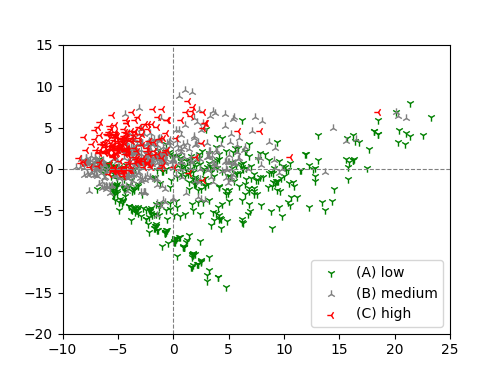
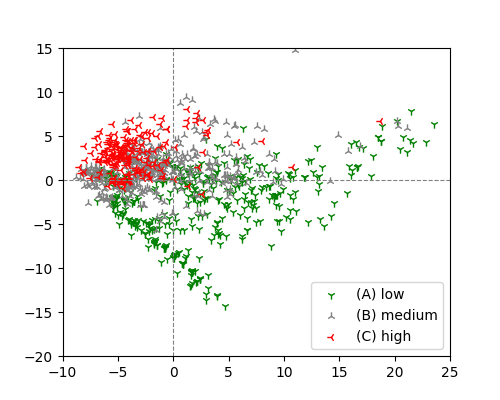
Rewrote README.md.

diff --git a/solubility.py b/solubility.py
@@ -1,0 +1,71 @@
+import numpy as np
+import pandas as pd
+import matplotlib.pyplot as plt
+
+from rdkit import Chem
+from rdkit.Chem import Descriptors
+
+def plot_pca(T, labels):
+    plt.figure(figsize=(5, 4))
+    for i, (label, color) in enumerate(zip(sorted(set(labels)), ('green', 'gray', 'red'))):
+        plt.scatter(T[labels == label, 0], T[labels == label, 1], label=label,
+                    marker=f'{i+1}', color=color, linewidth=1.0)
+    plt.axline([0, 0], [1, 0], linestyle='--', linewidth=0.8, color='gray')
+    plt.axline([0, 0], [0, 1], linestyle='--', linewidth=0.8, color='gray')
+    plt.xlim(-10, 25)
+    plt.ylim(-20, 15)
+    plt.legend()
+    plt.savefig('figure/solubility_PCA.png', dpi=100)
+
+def pca(X, columns):
+    N, n = X.shape
+
+    # Mean centering.
+    X = X - np.mean(X, axis=0)
+
+    # Standardization.
+    X = X / np.std(X, axis=0)
+
+    U, S, Vt = np.linalg.svd(X)
+    T = U[:, :n] * S
+
+    importance = pd.DataFrame(zip(columns, Vt.T[:, 1]), columns=['feature', 'value'])
+
+    return T, importance
+
+def load_dataset():
+    descriptors, y, labels = [], [], []
+    for mol in Chem.SDMolSupplier('data/solubility.train.sdf'):
+        descriptors.append(Descriptors.CalcMolDescriptors(mol))
+        y.append(np.float32(mol.GetProp('SOL')))
+        labels.append(mol.GetProp('SOL_classification'))
+
+    data = []
+    for descriptor in descriptors:
+        data.append(descriptor.values())
+
+    X = pd.DataFrame(data, columns=descriptor.keys())
+
+    labels = np.asarray(labels)
+
+    return X, y, labels
+
+def main():
+    X, y, labels = load_dataset()
+
+    print(pd.DataFrame(labels, columns=['label']).groupby('label').size())
+
+    print('Exclude {} features of the NaN values.'.format((X.isnull().sum(axis=0) > 0).sum()))
+    X = X.loc[:, X.isnull().sum(axis=0) == 0]
+
+    print('Exclude {} features of zero variance.'.format((X.var(axis=0) == 0).sum()))
+    X = X.loc[:, X.var(axis=0) != 0]
+
+    T, importance = pca(X.values, X.columns)
+
+    print(importance.sort_values('value', ascending=False))
+
+    plot_pca(T, labels)
+
+if __name__ == '__main__':
+    main()

diff --git a/README.md b/README.md
@@ -1,56 +1,30 @@
-# Representation of aqueous solubility of small molecules using PCA
+# Representation of Solubility of Small Molecules
 
 ## Introduction
 
-*Small molecules* are still a large percentage of *drug discovery* candidates due to their ease of handling and use.
-Screening is one of the initial steps in drug discovery for small molecules, and *virtual screening* is a computational approach to this process.
+*Small molecules* are still a large percentage of *drug discovery* candidate substances due to their ease of handling and use. In drug discovery involving small molecules, there is a process called *screening* that selects drug candidate compounds in the initial steps from a vast number of chemical structures to be investigated. *Virtual screening* is a method that accelerates this process by computing.
 
-Prior to the introduction of *deep learning*, DL, virtual screening used *molecular descriptors* calculated from the structure of a compound as features.
-Molecular descriptors are mainly composed of two components: experimental measurements such as physicochemical properties, and theoretically defined quantities such as geometric properties.
-In particular, molecular descriptors that are determined from the existence and frequency of substructures, which is one of the geometrical properties, are called *chemical fingerprints*.
+In early virtual screening, *molecular descriptors* based on chemical structures were often used to characterize small molecule drugs. For example, one of such attempts is the *rule of five*, which is a criterion proposed by *Lipinski et al.* in 1997 to evaluate absorption and permeation of a chemical compound[^Lipinski]. 
 
-An early attempt to characterize *small molecule drugs* using molecular descriptors is known as the *rule of five* proposed by Lipinski et al. in 1997.
-This is a proposal to represent the *absorption*, *distribution*, *metabolism*, and *excretion*, so-called ADME, of mainly oral drugs by using the *hydrogen bond donors*, *hydrogen bond acceptors*, *molecular weight*, and *partition coefficient* of small molecules as the features.
-The concept that features represent in the virtual screening of small molecule drugs is called *druglikeness*, and ADME is considered to be a part of it.
-As computing has progressed, a large number of compounds and features have been used for the representation of druglikeness by molecular descriptors.
-There have been attempts to represent more complex properties of compounds by molecular descriptors, and *quantitative structure-activity relationship*, QSAR, which seeks correlation with biological acivities essential for small molecule drugs, is an early application of machine learning.
-
-As an example here, we take the *aqueous solubility* of small molecules and project the molecular descriptors using *principal component analysis*, PCA, to visually represent their properties.
+Here, as a simple example of charcterize small molecules by molecular descriptors, we take the *solubility* of a chemical compound as the target index and project the molecular descriptors of each compound by *principal component analysis*, PCA, to visually represent that the compounds can be classified by the index.
 
 ## Dataset
 
-We use the dataset from [Huuskonen], which was evaluated to predict the aqueous solubility of small molecules. 
-This dataset contains 1,025 small molecules of organic compounds defined in `MDL Molfile` format and classified into 417, 402, and 206 categories according to low, medium, and high solubility, respectively.
+We use the dataset from [^Huuskonen], which evaluates the solubility of small molecules. This dataset contains 1,025 small molecules of organic compounds defined in the `MDL Molfile` format, with 417, 402, and 206 chemical compounds classified for low, medium, and high solubility, respectively.
 
-The Python cheminformatics package `RDKit` was used to calculate molecular descriptors.
-Of all molecular descriptors defined in `RDKit`, 183 molecular descriptors were used as features after excluding descriptors containing missing values.
-Thus, each compound is represented by a real vector of 183 dimensions and the dataset is a $(1025 \times 183)$-matrix.
+The Python *cheminformatics* package `RDKit` was used to calculate molecular descriptors. Among all molecular descriptors defined in `RDKit`, 183 molecular descriptors were used as *features*, excluding descriptors that contain missing values or have zero variance. Thus, each compound is represented by a real vector of 183 dimensions and the dataset is a $(1025 \times 183)$-matrix.
 
-## Methods
+## Projection and Classification
 
-PCA is the most fundamental *unsupervised* or *self-supervised learning*.
-Mathematically, it is based on the eigendecomposition of the covariance matrix, and is a linear method that gives a projection from the original coordinates to the coordinates that maximize the variance in each dimension.
-It is often used as the first choice in machine learning, especially in *visualization*, because it allows dimensionality reduction at a practical cost by extracting common features from a given dataset in high dimensions.
+PCA is a linear method that gives a projection from the original coordinates to the coordinates that maximize the variance in each dimension, and is one of the most fundamental methods of *unsupervised learning*. It is often used as the first choice in *machine learning*, especially for *visualization*, because it allows dimensionality reduction at a practical cost from a given dataset in high dimensions.
 
-Here, we investigate the possibility of classifying solubility using a linear method by projecting the higher-dimensional molecular descriptor representation of the compounds onto the coordinate with the largest variance.
+Here, we project the representation of compounds by high-dimensional molecular descriptors to the coordinate with the largest variance using PCA and investigate the possibility of classification by solubility labels. We performed PCA on the matrix of the given dataset and plotted the results by the two dimensions with the largest variance in Figure 1.
 
-## Results
+![projection](figure/solubility_PCA.png)
 
-PCA is performed on the matrix of the given dataset using *singular value decomposition* and the results plotted by the two dimensions with the largest variance are shown in Figure 1.
+**Figure 1. Relationship between the PCA projection of molecular descriptors of small molecules and solubility.**
 
-![Relationship between the PCA projection of molecular descriptors and aqueous solubility of small molecules.](figure/solubility_PCA.png)
+Compounds with high, medium, and low solubilities form a cluster in the projected space, respectively. Among these, especially for compounds with high and low solubility, we can see that almost linear separation is possible by the two variables from the order of large variance. On the other hand, it would be necessary to try more variables or classification methods to classify the clusters with medium solubility.
 
-**Figure 1. Relationship between the PCA projection of molecular descriptors and aqueous solubility of small molecules.**
-
-Compounds with high, medium, and low solubilities form clusters in the projected space, respectively.
-Especially for compounds with high and low solubility, they are almost linearly separable.
-
-## Furthermore
-
-Molecular descriptors were often used as input in the early DL applications, but as the DL model evolved, the model required more features, and chemical fingerprints such as *Morgan fingerprints* or *extended-connectivity fingerprints*, ECFP, which are defined based on graphs of chemical structures, are used as high-dimensional features to represent compounds, and high accuracy has been achieved.
-
-Because these chemical fingerprints based on graph structures have been effective, neural networks such as *graph convolutional networks*, GCN, which accept graph structures as input, were proposed as models for handling chemical compounds, without going through chemical fingerprints.
-
-## Reference
-
-- [Huuskonen] J. Huuskonen, *Estimation of Aqueous Solubility for a Diverse Set of Organic Compounds Based on Molecular Topology*, **J Chem Inf Comput Sci**, 40, 3, pp.773–777, 2000.
+[^Lipinski] C.A. Lipinski, et al., *Experimental and computational approaches to estimate solubility and permeability in drug discovery and development settings*, **Adv Drug Deliv Rev**, 23, pp.3-25, 1997.
+[^Huuskonen] J. Huuskonen, *Estimation of Aqueous Solubility for a Diverse Set of Organic Compounds Based on Molecular Topology*, **J Chem Inf Comput Sci**, 40, 3, pp.773–777, 2000.
